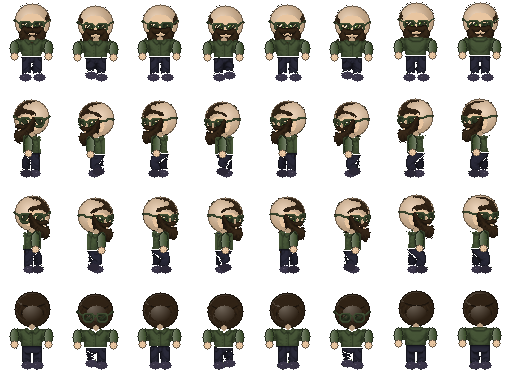
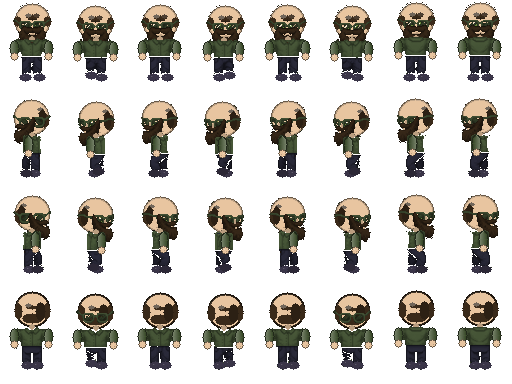
fix: balding hair and stubble beard positioning in right/left profile views

diff --git a/shared/char-draw.ts b/shared/char-draw.ts
@@ -218,6 +218,8 @@ export function drawChar(s: DrawSurface, ox: number, oy: number, pal: CharPalett
   ): boolean => {
     const provider = s.componentProvider?.[component];
     if (!provider || !provider[style]) return false;
+    if (component === "hair" && style === "balding") return false;
+    if (component === "beard" && style === "stubble") return false;
     const frames = provider[style];
     const dirIndex = dirName === "down" ? 0 : dirName === "right" ? 1 : 2;
     const frameIndex = dirIndex * 8 + poseNum;
@@ -482,9 +484,9 @@ export function drawChar(s: DrawSurface, ox: number, oy: number, pal: CharPalett
     } else if (hs === "balding") {
       ci(hx(32), hy(18), 16, pal.skin);
       el(hx(19), hy(21), 5, 7 + hb, pal.hair);
-      el(hx(25), hy(15), 5, 2, pal.hair);
-      s.set(hx(32), hy(16), pal.skin);
-      el(hx(26), hy(10), 3, 2, hairLi); el(hx(21), hy(19), 4, 9, hairDk);
+      el(hx(22), hy(14), 3, 2, pal.hair);
+      s.set(hx(30), hy(15), pal.skin); s.set(hx(32), hy(16), pal.skin);
+      el(hx(23), hy(10), 3, 2, hairLi); el(hx(21), hy(19), 4, 9, hairDk);
     } else if (hs === "spiky") {
       el(hx(33), hy(9), 18, 9, pal.hair);
       for (let i = -2; i <= 2; i++) { const sx = hx(30 + i * 5); s.set(sx, hy(4 + Math.abs(i) * 2), pal.hair); s.set(sx + 1, hy(5 + Math.abs(i) * 2), pal.hair); }
@@ -752,9 +754,12 @@ export function drawChar(s: DrawSurface, ox: number, oy: number, pal: CharPalett
       }
     } else if (dir2 === "right") {
       if (bd === "stubble") {
-        for (let i = 0; i < 5; i++) {
-          s.set(hx(38 + i), hy(30 + (i % 2)), bcDk);
-        }
+        const stubblePts = [
+          [36, 30], [38, 29], [40, 30], [42, 29], [44, 30], [46, 31],
+          [37, 31], [39, 32], [41, 31], [43, 32], [45, 31],
+          [38, 33], [40, 33], [42, 33], [44, 32],
+        ];
+        for (const [sx, sy] of stubblePts) s.set(hx(sx), hy(sy), bcDk);
       } else if (bd === "mustache") {
         s.rect(hx(36), hy(27), 6, 2, bc);
         s.set(hx(36), hy(28), bcDk);

diff --git a/client/src/game/boot.ts b/client/src/game/boot.ts
@@ -33,7 +33,7 @@ export class BootScene extends Phaser.Scene {
   }
 
   preload(): void {
-    const v = "?v=8x";
+    const v = "?v=9x";
     this.load.tilemapTiledJSON("map-classic", `assets/maps/office.json${v}`);
     this.load.tilemapTiledJSON("map-agentHeights", `assets/maps/agentHeights.json${v}`);
     this.load.image("tiles-classic", `assets/tilesets/office.png${v}`);
